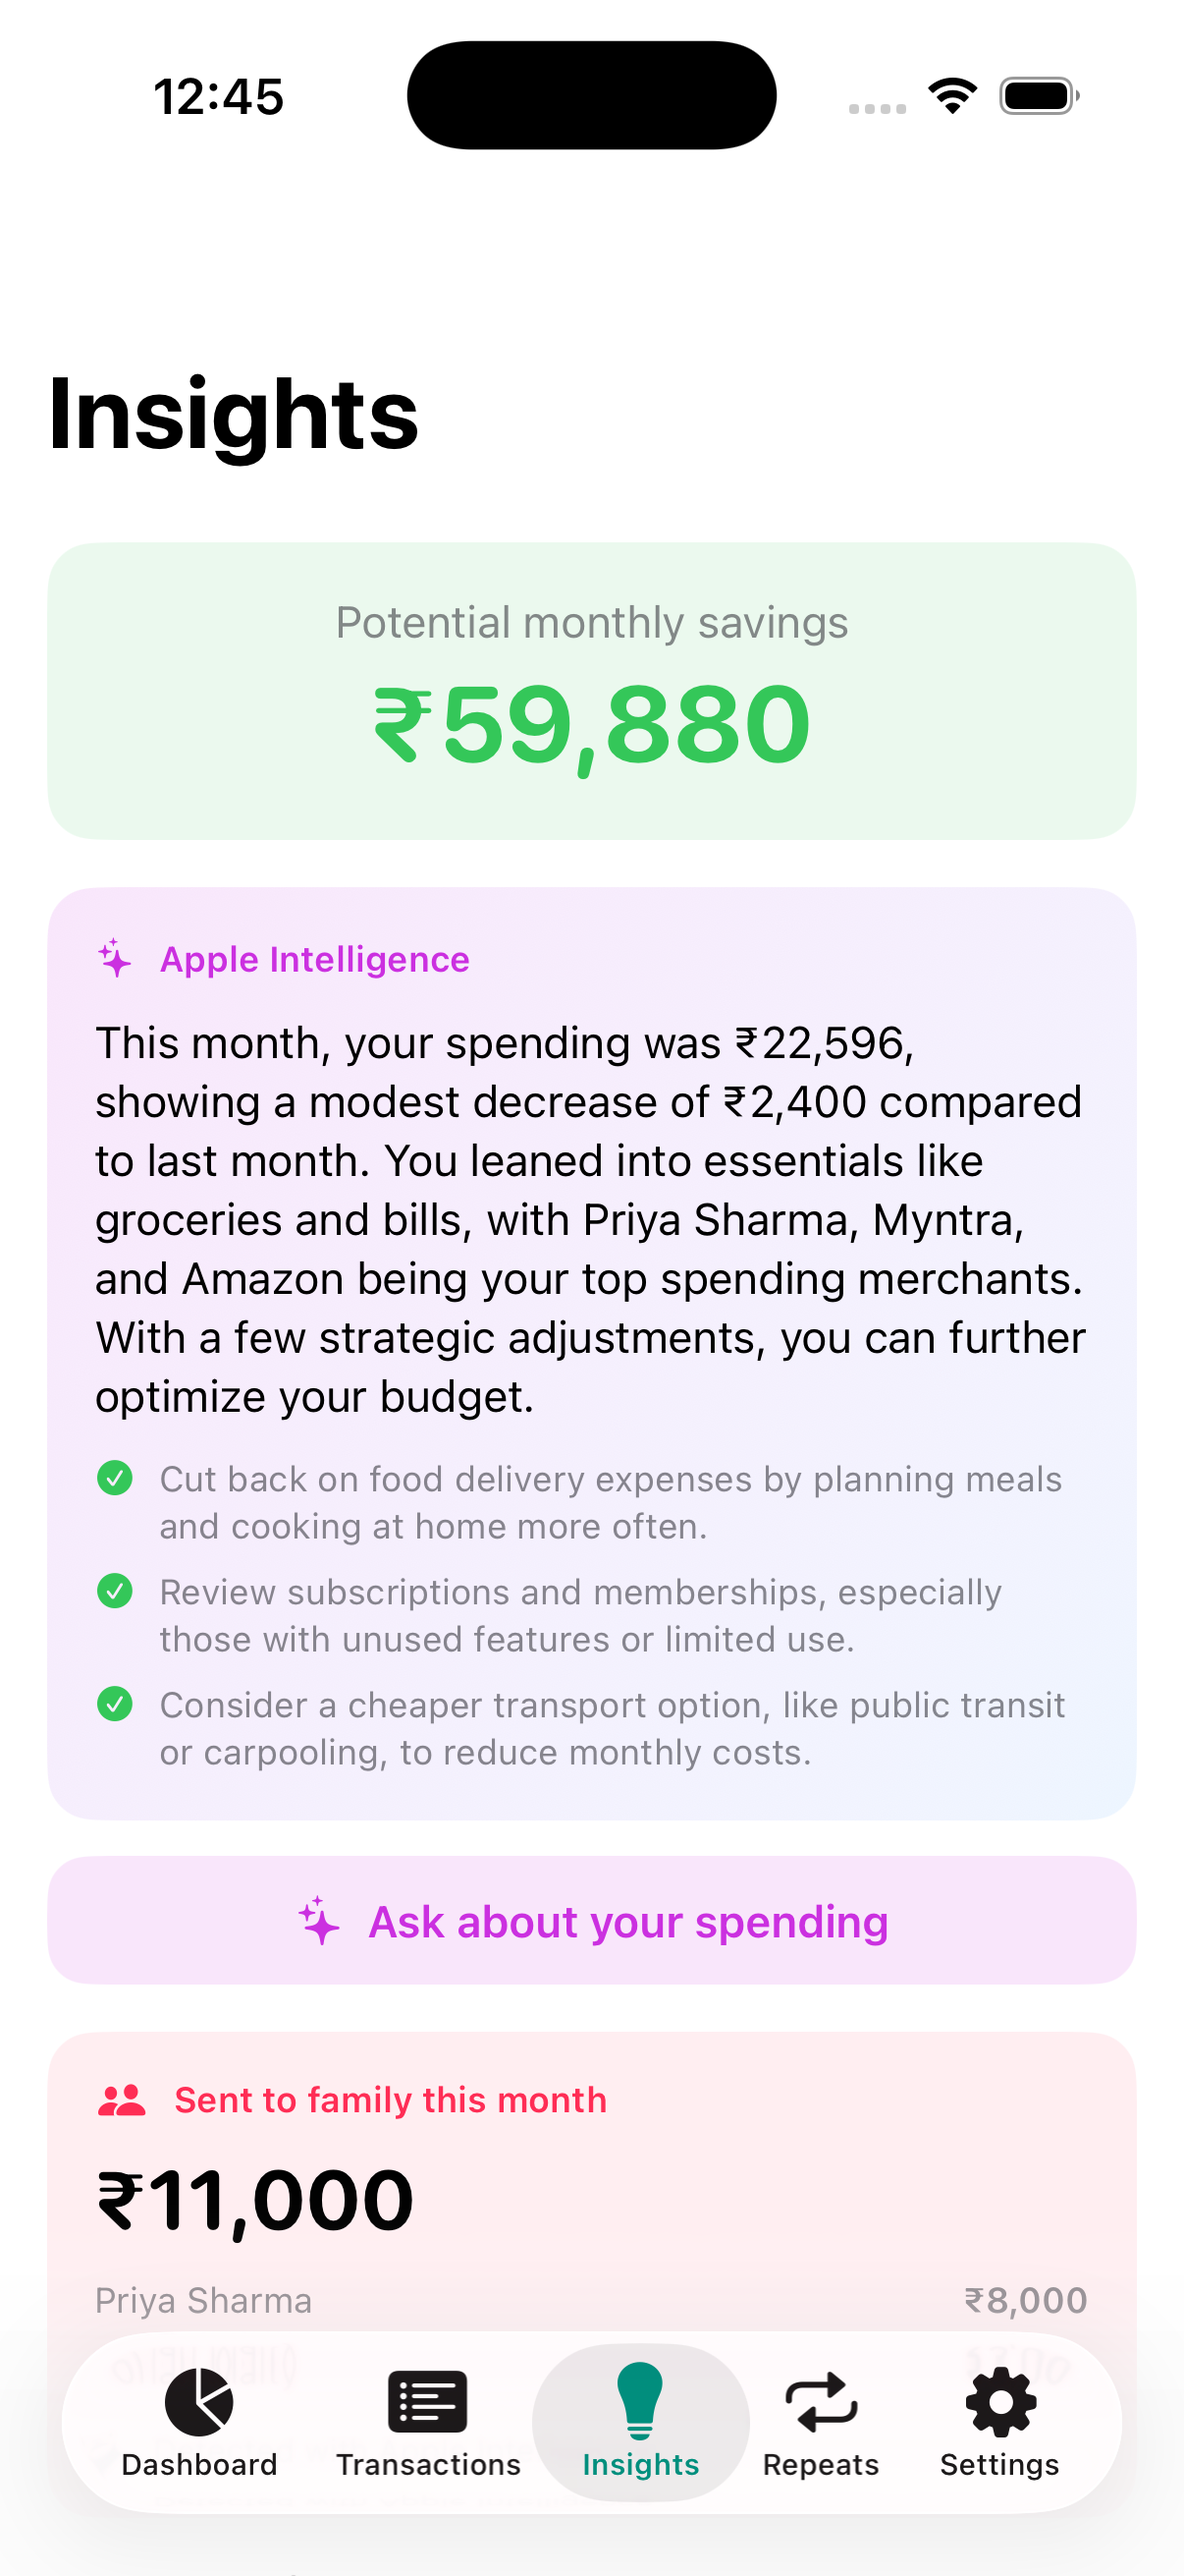
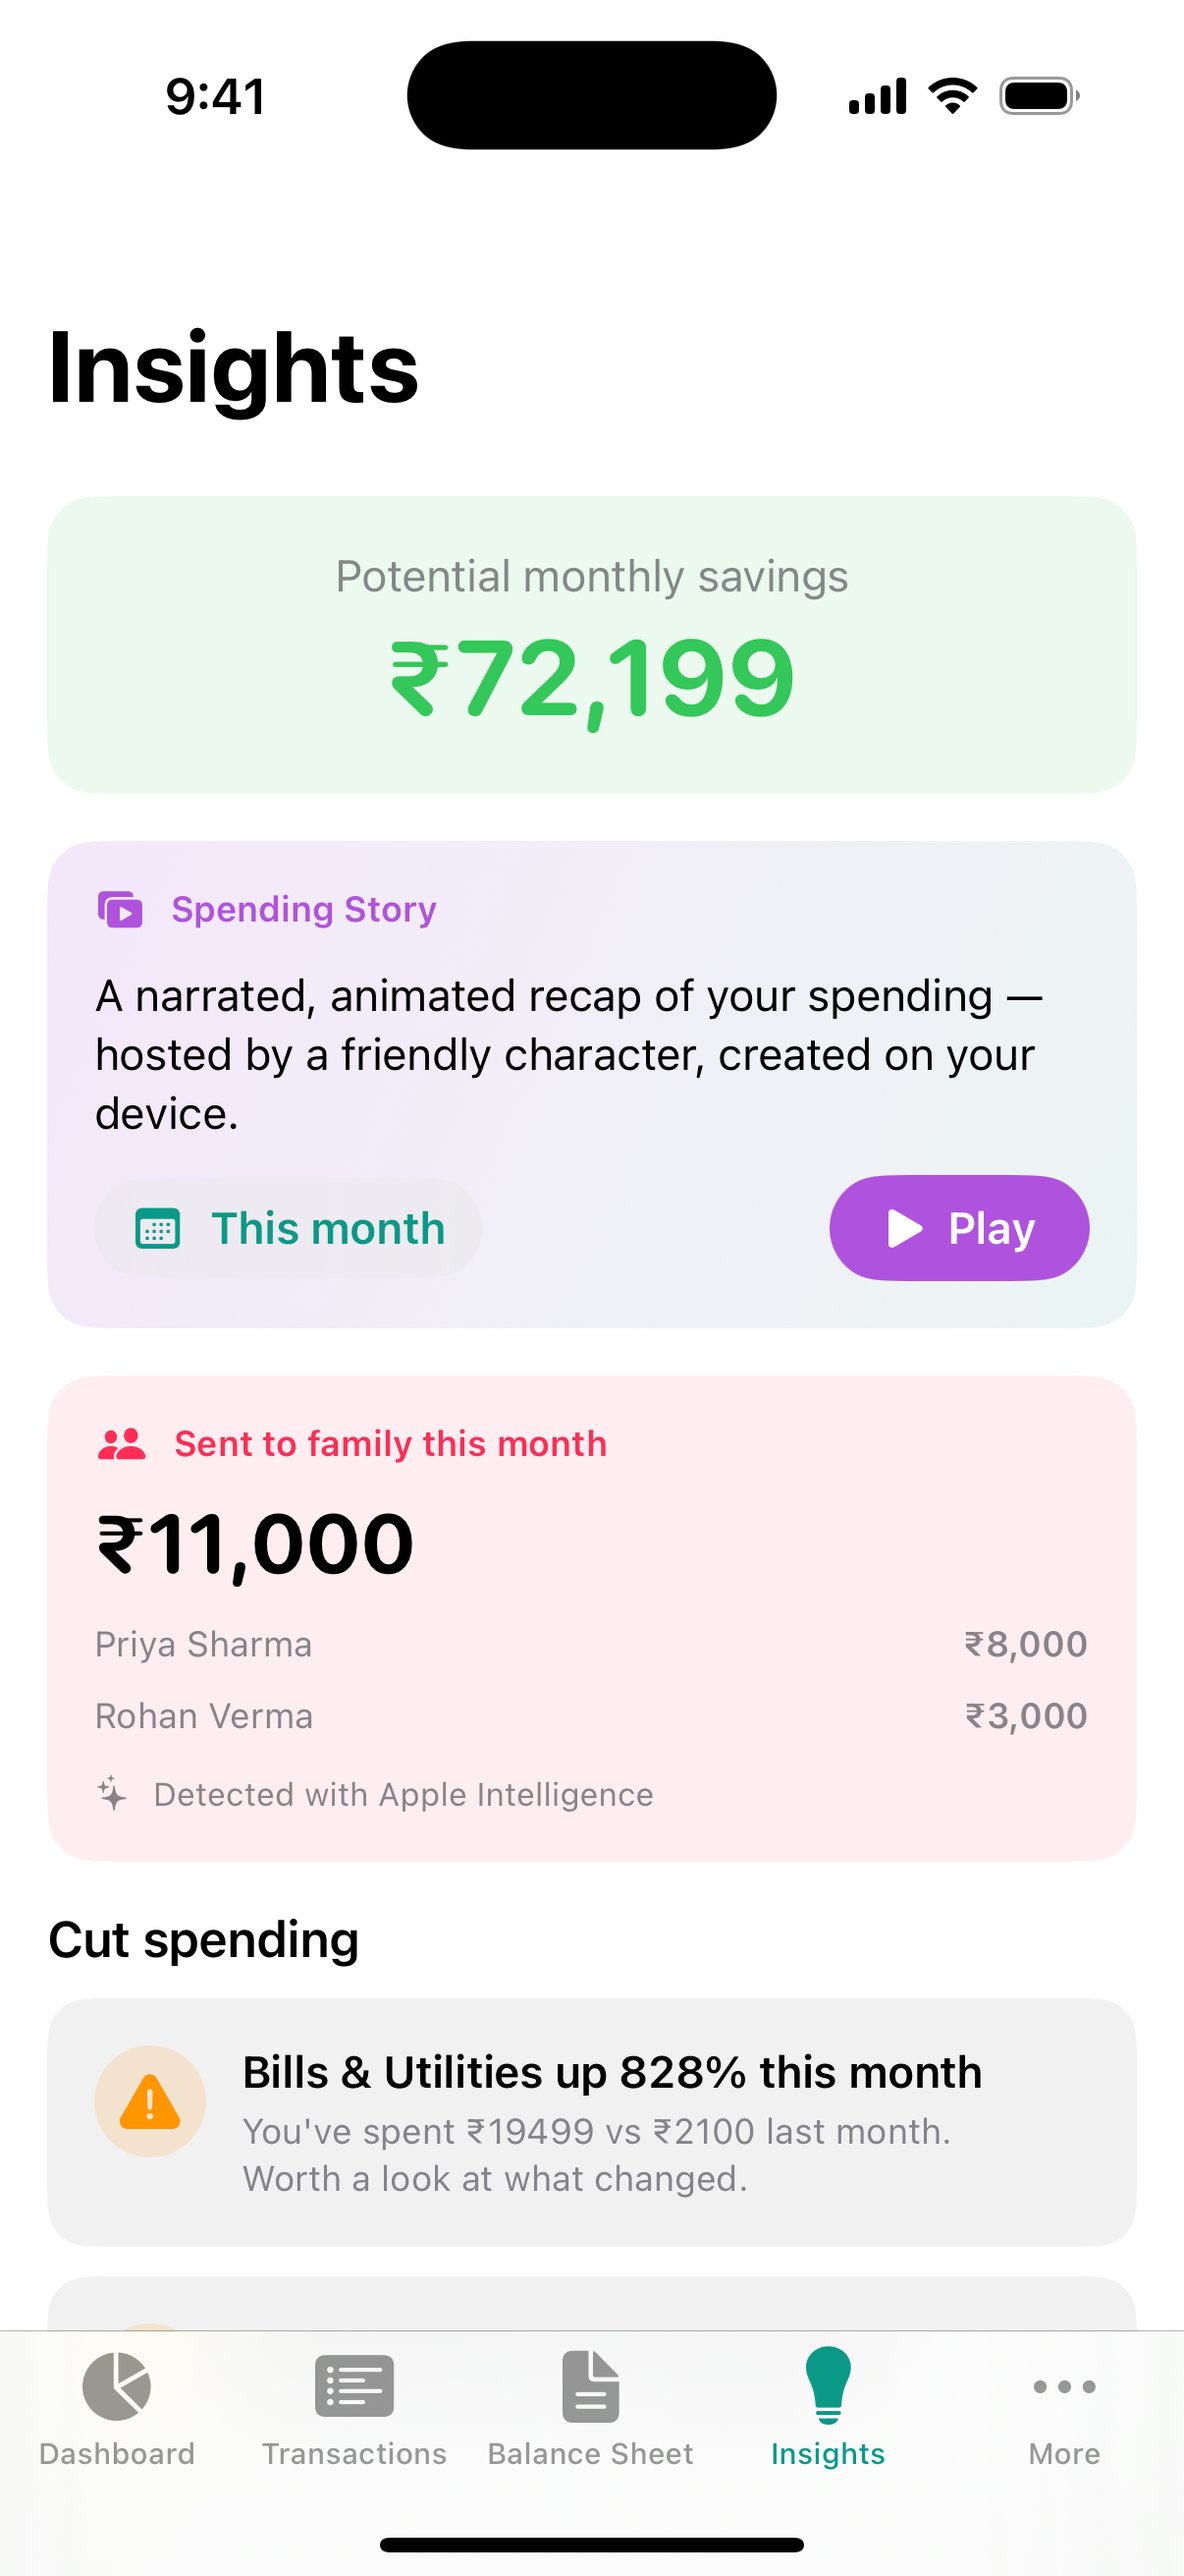
Add DEBUG demo-data mode and regenerate sample-data screenshots
A DEMO_DATA launch env var seeds a rich, fully-tagged sample dataset (income,
investments, family transfers, a named-account bill, and a mix of SMS/email/manual
sources with timestamps) and a SCREENSHOT_TAB var selects the screen, so marketing
screenshots can be captured deterministically in the Simulator. Compiled out of
Release builds. Regenerated the five app screenshots and added a balance-sheet shot.

diff --git a/SpendWise/Stores/TransactionStore.swift b/SpendWise/Stores/TransactionStore.swift
@@ -78,6 +78,11 @@ final class TransactionStore: ObservableObject {
     init() {
         AppFiles.migrateLegacyStorageIfNeeded()   // move data out of ~/Documents (older builds)
         load()
+        #if DEBUG
+        // Screenshot/marketing mode: seed rich, fully-tagged demo data and skip the normal
+        // empty-start + sync pipeline. Gated on a launch env var; compiled out of Release builds.
+        if ProcessInfo.processInfo.environment["DEMO_DATA"] != nil { seedDemoData(); return }
+        #endif
         backfillReferenceIDs()   // populate reference numbers on rows imported before ref tracking
         collapseDuplicates()     // collapse duplicates (by reference number, then by content)
         if let data = UserDefaults.standard.data(forKey: Self.partyTagsKey),
@@ -598,6 +603,19 @@ final class TransactionStore: ObservableObject {
         }
         if changed { save() }
     }
+
+    #if DEBUG
+    /// Loads the screenshot/marketing demo dataset (see `SampleData.demoTransactions`). Sets a
+    /// matching family + named-account rule so every screen and badge is populated. Never runs in
+    /// production — gated by the DEMO_DATA launch env var and compiled out of Release builds.
+    func seedDemoData() {
+        familyMembers = SampleData.familyMembers
+        userProfile = UserProfile(name: "Alex Kumar", aliases: "", accounts: "5832")
+        RulesStore.shared.setPayeeRule(accountLast4: "1234", payee: "Green Acres Maintenance",
+                                       category: .utilities)
+        transactions = SampleData.demoTransactions.sorted { $0.date > $1.date }
+    }
+    #endif
 
     /// Recovers a time-of-day for SMS rows still sitting at midnight, by re-reading the transaction
     /// time the bank stated in the stored message body. Rows whose body has no time stay as-is.
@@ -1403,4 +1421,60 @@ enum SampleData {
         FamilyMember(name: "Rohan Verma", relationship: "Brother", aliases: "Rohan"),
         FamilyMember(name: "Anita Verma", relationship: "Spouse", aliases: ""),
     ]
+
+    /// Rich, fully-tagged demo dataset for screenshots/marketing: income + spending across
+    /// categories, investments, family transfers, a named-account bill, and a mix of capture
+    /// channels (SMS with real times, email, manual) so every card and badge has something to show.
+    static var demoTransactions: [Transaction] {
+        let cal = Calendar.current
+        func at(_ daysAgo: Int, _ hour: Int = 0, _ minute: Int = 0) -> Date {
+            let day = cal.date(byAdding: .day, value: -daysAgo, to: Date())!
+            return cal.date(bySettingHour: hour, minute: minute, second: 0, of: day) ?? day
+        }
+        var out: [Transaction] = []
+        func add(_ daysAgo: Int, _ amount: Double, _ merchant: String, _ category: SpendCategory,
+                 _ bank: String, source: String, hour: Int = 0, minute: Int = 0,
+                 income: Bool = false, family: String? = nil, acct4: String? = nil) {
+            var t = Transaction(date: at(daysAgo, hour, minute), amount: amount, merchant: merchant,
+                                category: category, bank: bank, source: source, rawSnippet: nil)
+            t.kind = income ? .income : .expense
+            t.recipientAccountLast4 = acct4
+            if let family { t.toFamily = true; t.familyMember = family }
+            out.append(t)
+        }
+        // Income (drives the income-vs-spending card and the statement)
+        add(4,  125000, "Acme Corp Payroll", .income, "HDFC", source: "gmail", income: true)
+        add(34, 125000, "Acme Corp Payroll", .income, "HDFC", source: "gmail", income: true)
+        // Everyday spending — SMS rows carry a time of day, email rows don't.
+        add(0,  420,  "Swiggy",            .food,          "HDFC", source: "sms",   hour: 13, minute: 12)
+        add(1,  1250, "Big Bazaar",        .groceries,     "HDFC", source: "sms",   hour: 19, minute: 40)
+        add(1,  199,  "Spotify",           .entertainment, "ICICI", source: "gmail")
+        add(2,  310,  "Uber",              .transport,     "HDFC", source: "sms",   hour: 9,  minute: 5)
+        add(3,  2899, "Amazon",            .shopping,      "ICICI", source: "gmail")
+        add(4,  650,  "Zomato",            .food,          "HDFC", source: "sms",   hour: 21, minute: 18)
+        add(5,  999,  "Airtel Recharge",   .utilities,     "SBI",  source: "sms",   hour: 11, minute: 2)
+        add(6,  540,  "Blinkit",           .groceries,     "HDFC", source: "sms",   hour: 20, minute: 33)
+        add(8,  180,  "Rapido",            .transport,     "ICICI", source: "sms",  hour: 8,  minute: 51)
+        add(9,  3500, "Myntra",            .shopping,      "HDFC", source: "gmail")
+        add(11, 649,  "Netflix",           .entertainment, "ICICI", source: "gmail")
+        add(11, 850,  "Apollo Pharmacy",   .health,        "SBI",  source: "sms",   hour: 17, minute: 9)
+        add(14, 2100, "BESCOM Electricity", .utilities,    "HDFC", source: "gmail")
+        add(18, 1299, "BookMyShow",        .entertainment, "ICICI", source: "manual")
+        add(19, 1500, "Indian Oil Petrol", .transport,     "SBI",  source: "sms",   hour: 7,  minute: 44)
+        add(22, 1100, "Dominos",           .food,          "ICICI", source: "sms",  hour: 20, minute: 15)
+        add(26, 899,  "Flipkart",          .shopping,      "HDFC", source: "gmail")
+        add(28, 3200, "MakeMyTrip",        .travel,        "HDFC", source: "gmail")
+        // Investments (drives the investments card)
+        add(7,  5000, "Groww SIP",         .investment,    "ICICI", source: "gmail")
+        add(15, 15000, "Zerodha Stocks",   .investment,    "HDFC", source: "sms",   hour: 10, minute: 1)
+        add(37, 5000, "Groww SIP",         .investment,    "ICICI", source: "gmail")
+        // Family transfers (tagged → "To family" badge; counted as spending)
+        add(2,  8000,  "Priya Sharma", .transfer, "HDFC",  source: "sms", hour: 9,  minute: 30, family: "Priya Sharma", acct4: "2048")
+        add(9,  3000,  "Rohan",        .transfer, "ICICI", source: "sms", hour: 18, minute: 40, family: "Rohan Verma",  acct4: "7781")
+        add(20, 20000, "Anita Verma",  .transfer, "HDFC",  source: "sms", hour: 11, minute: 0,  family: "Anita Verma",  acct4: "1190")
+        // A named-account bill (society maintenance) and a non-family transfer
+        add(10, 18500, "Green Acres Maintenance", .utilities, "HDFC", source: "sms", hour: 8, minute: 30, acct4: "1234")
+        add(16, 1200,  "UPI transfer", .transfer, "HDFC", source: "sms", hour: 10, minute: 12)
+        return out
+    }
 }

diff --git a/SpendWise/Views/MainNavigation.swift b/SpendWise/Views/MainNavigation.swift
@@ -67,10 +67,19 @@ struct MainNavigation: View {
         .frame(minWidth: 760, minHeight: 520)
     }
     #else
+    // Honour a SCREENSHOT_TAB launch env var so each screen can be captured deterministically;
+    // defaults to the dashboard for normal launches.
+    @State private var selection: Tab = {
+        if let raw = ProcessInfo.processInfo.environment["SCREENSHOT_TAB"],
+           let tab = Tab(rawValue: raw) { return tab }
+        return .dashboard
+    }()
+
     var body: some View {
-        TabView {
+        TabView(selection: $selection) {
             ForEach(Tab.allCases) { tab in
                 tab.destination
+                    .tag(tab)
                     .tabItem { Label(tab.title, systemImage: tab.icon) }
             }
         }
